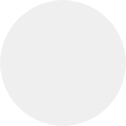
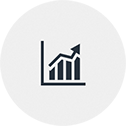
added images

Changed region(s): [[0.3095, 0.3095, 0.6905, 0.6905]]

diff --git a/src/app/doughnut-chart/doughnut-chart.component.ts b/src/app/doughnut-chart/doughnut-chart.component.ts
@@ -31,7 +31,6 @@ export class DoughnutChartComponent implements OnInit {
 
   public renderChart() {
     let chartComponent = this;
-
     let imageWidth = 40;
     let imageHeight = 40;
     let width = 400;
@@ -141,11 +140,7 @@ export class DoughnutChartComponent implements OnInit {
       })
       .append('svg:image')
       .attr('xlink:href', function (d) {
-        if (d.data.percentage > 8) {
-          return chartComponent.slicesImages[d.data.event];
-        } else {
-          return null;
-        }
+        return chartComponent.slicesImages[d.data.event];
       })
       .attr('id', function (d) {
         return chartComponent.slicesImages[d.data.event];
@@ -200,8 +195,8 @@ export class DoughnutChartComponent implements OnInit {
       if (d.data.expanded) {
         d3.select('#centerData').style('display', 'block');
         $('#slice_image').attr('src', chartComponent.slicesImages[d.data.event]);
-        $('#slice_value').text('label: ' + d.data.label + ':'  + '\n' +
-          'value: ' + d.data.value + '\n' +
+        $('#slice_value').text('label: ' + d.data.label + ';' + '\n' +
+          'value: ' + d.data.value + ';' + '\n' +
           'percentage: ' + Math.round(d.data.percentage) + '%');
       } else {
         d3.select('#centerData').style('display', 'none');
